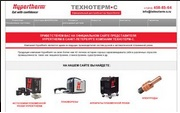
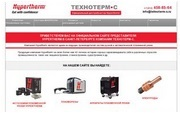
new

Changed region(s): [[0.0, 0.0, 1.0, 0.9823]]

diff --git a/build/css/style.min.css b/build/css/style.min.css
@@ -1,2 +1,2 @@
 /*! normalize.css v4.1.1 | MIT License | github.com/necolas/normalize.css */
-html{font-family:sans-serif;-ms-text-size-adjust:100%;-webkit-text-size-adjust:100%}body{margin:0}article,aside,details,figcaption,figure,footer,header,main,menu,nav,section,summary{display:block}audio,canvas,progress,video{display:inline-block}audio:not([controls]){display:none;height:0}progress,sub,sup{vertical-align:baseline}[hidden],template{display:none}a{background-color:transparent;-webkit-text-decoration-skip:objects}a:active,a:hover{outline-width:0}abbr[title]{border-bottom:none;text-decoration:underline dotted}b,strong{font-weight:bolder}dfn{font-style:italic}h1{font-size:2em;margin:.67em 0}mark{background-color:#ff0;color:#000}small{font-size:80%}sub,sup{font-size:75%;line-height:0;position:relative}sub{bottom:-.25em}sup{top:-.5em}img{border-style:none}svg:not(:root){overflow:hidden}code,kbd,pre,samp{font-family:monospace,monospace;font-size:1em}figure{margin:1em 40px}hr{box-sizing:content-box;height:0}button,input,select,textarea{font:inherit;margin:0}optgroup{font-weight:700}button,hr,input{overflow:visible}button,select{text-transform:none}[type=reset],[type=submit],button,html [type=button]{-webkit-appearance:button}[type=button]::-moz-focus-inner,[type=reset]::-moz-focus-inner,[type=submit]::-moz-focus-inner,button::-moz-focus-inner{border-style:none;padding:0}[type=button]:-moz-focusring,[type=reset]:-moz-focusring,[type=submit]:-moz-focusring,button:-moz-focusring{outline:1px dotted ButtonText}fieldset{border:1px solid silver;margin:0 2px;padding:.35em .625em .75em}legend{color:inherit;display:table;max-width:100%;white-space:normal}textarea{overflow:auto}[type=checkbox],[type=radio],legend{box-sizing:border-box;padding:0}[type=number]::-webkit-inner-spin-button,[type=number]::-webkit-outer-spin-button{height:auto}[type=search]{-webkit-appearance:textfield;outline-offset:-2px}[type=search]::-webkit-search-cancel-button,[type=search]::-webkit-search-decoration{-webkit-appearance:none}::-webkit-input-placeholder{color:inherit;opacity:.54}::-webkit-file-upload-button{-webkit-appearance:button;font:inherit}.container{background:linear-gradient(180deg,#f1f5f7 0%,#a9a9a9 80%) no-repeat}.header{display:flex;flex-direction:column;padding-bottom:113px}.ad-list-items{display:flex;justify-content:center;padding:20px;list-style:none;margin:100px auto 40px;background:#fff;width:700px;border:2px solid rgba(0,0,0,.2)}.ad-list-items__item{display:flex;margin-right:20px}.ad-list-items__link{display:flex;flex-direction:column;text-align:center;border:3px solid #000;transition:.2s ease-out;text-decoration:none}.ad-list-items__link:hover{box-shadow:0 0 9px 6px rgba(0,0,0,.4)}.ad-list-items__text{background:#000;padding:2px;color:#fff}.list-items{display:flex;flex-wrap:wrap;justify-content:center;width:700px;margin:auto;list-style:none;background:#fff;border:2px solid rgba(0,0,0,.2);padding:20px}.list-items__item{margin-bottom:20px;margin-right:20px}.list-items__link{display:flex;border:2px solid #000;flex-direction:column;text-align:center;width:100%;text-decoration:none;color:#f0f8ff;z-index:10;transition:.2s ease-out}.list-items__link:hover{box-shadow:0 0 7px 5px rgba(0,0,0,.4)}.list-items__text{background:rgba(0,0,0,.7);padding:2px}
+html{font-family:sans-serif;-ms-text-size-adjust:100%;-webkit-text-size-adjust:100%}body{margin:0}article,aside,details,figcaption,figure,footer,header,main,menu,nav,section,summary{display:block}audio,canvas,progress,video{display:inline-block}audio:not([controls]){display:none;height:0}progress,sub,sup{vertical-align:baseline}[hidden],template{display:none}a{background-color:transparent;-webkit-text-decoration-skip:objects}a:active,a:hover{outline-width:0}abbr[title]{border-bottom:none;text-decoration:underline dotted}b,strong{font-weight:bolder}dfn{font-style:italic}h1{font-size:2em;margin:.67em 0}mark{background-color:#ff0;color:#000}small{font-size:80%}sub,sup{font-size:75%;line-height:0;position:relative}sub{bottom:-.25em}sup{top:-.5em}img{border-style:none}svg:not(:root){overflow:hidden}code,kbd,pre,samp{font-family:monospace,monospace;font-size:1em}figure{margin:1em 40px}hr{box-sizing:content-box;height:0}button,input,select,textarea{font:inherit;margin:0}optgroup{font-weight:700}button,hr,input{overflow:visible}button,select{text-transform:none}[type=reset],[type=submit],button,html [type=button]{-webkit-appearance:button}[type=button]::-moz-focus-inner,[type=reset]::-moz-focus-inner,[type=submit]::-moz-focus-inner,button::-moz-focus-inner{border-style:none;padding:0}[type=button]:-moz-focusring,[type=reset]:-moz-focusring,[type=submit]:-moz-focusring,button:-moz-focusring{outline:1px dotted ButtonText}fieldset{border:1px solid silver;margin:0 2px;padding:.35em .625em .75em}legend{color:inherit;display:table;max-width:100%;white-space:normal}textarea{overflow:auto}[type=checkbox],[type=radio],legend{box-sizing:border-box;padding:0}[type=number]::-webkit-inner-spin-button,[type=number]::-webkit-outer-spin-button{height:auto}[type=search]{-webkit-appearance:textfield;outline-offset:-2px}[type=search]::-webkit-search-cancel-button,[type=search]::-webkit-search-decoration{-webkit-appearance:none}::-webkit-input-placeholder{color:inherit;opacity:.54}::-webkit-file-upload-button{-webkit-appearance:button;font:inherit}.container{background:linear-gradient(180deg,#f1f5f7 0%,#a9a9a9 80%) no-repeat}.header{display:flex;flex-direction:column;padding-bottom:150px}.ad-list-items{display:flex;justify-content:center;padding:20px;list-style:none;margin:100px auto 40px;width:700px}.ad-list-items__item{display:flex;margin-right:20px}.ad-list-items__link{display:flex;flex-direction:column;text-align:center;transition:.2s ease-out;text-decoration:none}.ad-list-items__link:hover{box-shadow:0 0 9px 6px rgba(0,0,0,.4)}.ad-list-items__text{padding:2px;color:#000;border-bottom:2px solid #000;background:#fff;font-family:monospace;font-size:16px}.list-items{display:flex;flex-wrap:wrap;justify-content:center;width:700px;margin:auto;list-style:none;padding:20px}.list-items__item{margin-bottom:20px;margin-right:20px;border-bottom:2px solid #000}.list-items__link{display:flex;flex-direction:column;text-align:center;width:100%;text-decoration:none;color:#fff;transition:.2s ease-out}.list-items__link:hover{box-shadow:0 0 7px 5px rgba(0,0,0,.4)}.list-items__text{color:#000;padding:2px;transition:.3s ease-out;background:#fff;font-family:monospace;font-size:16px}.list-items__link:hover .list-items__text{opacity:1}

diff --git a/css/style.min.css b/css/style.min.css
@@ -1,2 +1,2 @@
 /*! normalize.css v4.1.1 | MIT License | github.com/necolas/normalize.css */
-html{font-family:sans-serif;-ms-text-size-adjust:100%;-webkit-text-size-adjust:100%}body{margin:0}article,aside,details,figcaption,figure,footer,header,main,menu,nav,section,summary{display:block}audio,canvas,progress,video{display:inline-block}audio:not([controls]){display:none;height:0}progress,sub,sup{vertical-align:baseline}[hidden],template{display:none}a{background-color:transparent;-webkit-text-decoration-skip:objects}a:active,a:hover{outline-width:0}abbr[title]{border-bottom:none;text-decoration:underline dotted}b,strong{font-weight:bolder}dfn{font-style:italic}h1{font-size:2em;margin:.67em 0}mark{background-color:#ff0;color:#000}small{font-size:80%}sub,sup{font-size:75%;line-height:0;position:relative}sub{bottom:-.25em}sup{top:-.5em}img{border-style:none}svg:not(:root){overflow:hidden}code,kbd,pre,samp{font-family:monospace,monospace;font-size:1em}figure{margin:1em 40px}hr{box-sizing:content-box;height:0}button,input,select,textarea{font:inherit;margin:0}optgroup{font-weight:700}button,hr,input{overflow:visible}button,select{text-transform:none}[type=reset],[type=submit],button,html [type=button]{-webkit-appearance:button}[type=button]::-moz-focus-inner,[type=reset]::-moz-focus-inner,[type=submit]::-moz-focus-inner,button::-moz-focus-inner{border-style:none;padding:0}[type=button]:-moz-focusring,[type=reset]:-moz-focusring,[type=submit]:-moz-focusring,button:-moz-focusring{outline:1px dotted ButtonText}fieldset{border:1px solid silver;margin:0 2px;padding:.35em .625em .75em}legend{color:inherit;display:table;max-width:100%;white-space:normal}textarea{overflow:auto}[type=checkbox],[type=radio],legend{box-sizing:border-box;padding:0}[type=number]::-webkit-inner-spin-button,[type=number]::-webkit-outer-spin-button{height:auto}[type=search]{-webkit-appearance:textfield;outline-offset:-2px}[type=search]::-webkit-search-cancel-button,[type=search]::-webkit-search-decoration{-webkit-appearance:none}::-webkit-input-placeholder{color:inherit;opacity:.54}::-webkit-file-upload-button{-webkit-appearance:button;font:inherit}.container{background:linear-gradient(180deg,#f1f5f7 0%,#a9a9a9 80%) no-repeat}.header{display:flex;flex-direction:column;padding-bottom:113px}.ad-list-items{display:flex;justify-content:center;padding:20px;list-style:none;margin:100px auto 40px;background:#fff;width:700px;border:2px solid rgba(0,0,0,.2)}.ad-list-items__item{display:flex;margin-right:20px}.ad-list-items__link{display:flex;flex-direction:column;text-align:center;border:3px solid #000;transition:.2s ease-out;text-decoration:none}.ad-list-items__link:hover{box-shadow:0 0 9px 6px rgba(0,0,0,.4)}.ad-list-items__text{background:#000;padding:2px;color:#fff}.list-items{display:flex;flex-wrap:wrap;justify-content:center;width:700px;margin:auto;list-style:none;background:#fff;border:2px solid rgba(0,0,0,.2);padding:20px}.list-items__item{margin-bottom:20px;margin-right:20px}.list-items__link{display:flex;border:2px solid #000;flex-direction:column;text-align:center;width:100%;text-decoration:none;color:#f0f8ff;z-index:10;transition:.2s ease-out}.list-items__link:hover{box-shadow:0 0 7px 5px rgba(0,0,0,.4)}.list-items__text{background:rgba(0,0,0,.7);padding:2px}
+html{font-family:sans-serif;-ms-text-size-adjust:100%;-webkit-text-size-adjust:100%}body{margin:0}article,aside,details,figcaption,figure,footer,header,main,menu,nav,section,summary{display:block}audio,canvas,progress,video{display:inline-block}audio:not([controls]){display:none;height:0}progress,sub,sup{vertical-align:baseline}[hidden],template{display:none}a{background-color:transparent;-webkit-text-decoration-skip:objects}a:active,a:hover{outline-width:0}abbr[title]{border-bottom:none;text-decoration:underline dotted}b,strong{font-weight:bolder}dfn{font-style:italic}h1{font-size:2em;margin:.67em 0}mark{background-color:#ff0;color:#000}small{font-size:80%}sub,sup{font-size:75%;line-height:0;position:relative}sub{bottom:-.25em}sup{top:-.5em}img{border-style:none}svg:not(:root){overflow:hidden}code,kbd,pre,samp{font-family:monospace,monospace;font-size:1em}figure{margin:1em 40px}hr{box-sizing:content-box;height:0}button,input,select,textarea{font:inherit;margin:0}optgroup{font-weight:700}button,hr,input{overflow:visible}button,select{text-transform:none}[type=reset],[type=submit],button,html [type=button]{-webkit-appearance:button}[type=button]::-moz-focus-inner,[type=reset]::-moz-focus-inner,[type=submit]::-moz-focus-inner,button::-moz-focus-inner{border-style:none;padding:0}[type=button]:-moz-focusring,[type=reset]:-moz-focusring,[type=submit]:-moz-focusring,button:-moz-focusring{outline:1px dotted ButtonText}fieldset{border:1px solid silver;margin:0 2px;padding:.35em .625em .75em}legend{color:inherit;display:table;max-width:100%;white-space:normal}textarea{overflow:auto}[type=checkbox],[type=radio],legend{box-sizing:border-box;padding:0}[type=number]::-webkit-inner-spin-button,[type=number]::-webkit-outer-spin-button{height:auto}[type=search]{-webkit-appearance:textfield;outline-offset:-2px}[type=search]::-webkit-search-cancel-button,[type=search]::-webkit-search-decoration{-webkit-appearance:none}::-webkit-input-placeholder{color:inherit;opacity:.54}::-webkit-file-upload-button{-webkit-appearance:button;font:inherit}.container{background:linear-gradient(180deg,#f1f5f7 0%,#a9a9a9 80%) no-repeat}.header{display:flex;flex-direction:column;padding-bottom:150px}.ad-list-items{display:flex;justify-content:center;padding:20px;list-style:none;margin:100px auto 40px;width:700px}.ad-list-items__item{display:flex;margin-right:20px}.ad-list-items__link{display:flex;flex-direction:column;text-align:center;transition:.2s ease-out;text-decoration:none}.ad-list-items__link:hover{box-shadow:0 0 9px 6px rgba(0,0,0,.4)}.ad-list-items__text{padding:2px;color:#000;border-bottom:2px solid #000;background:#fff;font-family:monospace;font-size:16px}.list-items{display:flex;flex-wrap:wrap;justify-content:center;width:700px;margin:auto;list-style:none;padding:20px}.list-items__item{margin-bottom:20px;margin-right:20px;border-bottom:2px solid #000}.list-items__link{display:flex;flex-direction:column;text-align:center;width:100%;text-decoration:none;color:#fff;transition:.2s ease-out}.list-items__link:hover{box-shadow:0 0 7px 5px rgba(0,0,0,.4)}.list-items__text{color:#000;padding:2px;transition:.3s ease-out;background:#fff;font-family:monospace;font-size:16px}.list-items__link:hover .list-items__text{opacity:1}

diff --git a/less/blocks/index.less b/less/blocks/index.less
@@ -5,7 +5,7 @@
 .header {
   display: flex;
   flex-direction: column;
-  padding-bottom: 113px;
+  padding-bottom: 150px;
 }
 
 .ad-list-items {
@@ -15,10 +15,8 @@
   margin: auto;
   list-style: none;
   margin-top: 100px;
-  margin-bottom: 40px;
-  background: #fff;
+  margin-bottom: 40px;  
   width: 700px;
-  border: 2px solid rgba(0,0,0, 0.2);
 }
 
 .ad-list-items__item {
@@ -29,8 +27,7 @@
 .ad-list-items__link {
   display: flex;
   flex-direction: column;
-  text-align: center;
-  border: 3px solid #000;
+  text-align: center;  
   transition: 0.2s ease-out;
   text-decoration: none;
 }
@@ -39,10 +36,13 @@
   box-shadow: 0px 0px 9px 6px rgba(0,0,0, 0.4);
 }
 
-.ad-list-items__text {
-  background: #000;
+.ad-list-items__text {  
   padding: 2px;
-  color: #fff;
+  color: #000;
+  border-bottom: 2px solid #000;
+  background: #fff;
+  font-family: monospace;
+  font-size: 16px;
 }
 
 .list-items {   
@@ -51,26 +51,23 @@
   justify-content: center;
   width: 700px;
   margin: auto;    
-  list-style: none;
-  background: #fff;
-  border: 2px solid rgba(0,0,0, 0.2);
-  padding: 20px;
+  list-style: none;  
+  padding: 20px;  
 }
 
 .list-items__item {      
   margin-bottom: 20px;
   margin-right: 20px;
+  border-bottom: 2px solid #000;
 }
 
 .list-items__link {  
-  display: flex;  
-  border: 2px solid #000;  
+  display: flex;    
   flex-direction: column;  
   text-align: center;
   width: 100%;  
   text-decoration: none;
-  color: aliceblue;    
-  z-index: 10;
+  color: #fff;
   transition: 0.2s ease-out;
 }
 
@@ -78,8 +75,15 @@
   box-shadow: 0px 0px 7px 5px rgba(0,0,0, 0.4);
 }
 
-.list-items__text {
-  background: rgba(0,0,0, 0.7);
+.list-items__text {  
+  color: #000;
   padding: 2px;
+  transition: 0.3s ease-out;
+  background: #fff;
+  font-family: monospace;
+  font-size: 16px;
+}
+.list-items__link:hover .list-items__text {
+  opacity: 1;
 }
 

diff --git a/build/css/style.css b/build/css/style.css
@@ -370,7 +370,7 @@ textarea {
 .header {
   display: flex;
   flex-direction: column;
-  padding-bottom: 113px;
+  padding-bottom: 150px;
 }
 .ad-list-items {
   display: flex;
@@ -380,9 +380,7 @@ textarea {
   list-style: none;
   margin-top: 100px;
   margin-bottom: 40px;
-  background: #fff;
   width: 700px;
-  border: 2px solid rgba(0, 0, 0, 0.2);
 }
 .ad-list-items__item {
   display: flex;
@@ -392,7 +390,6 @@ textarea {
   display: flex;
   flex-direction: column;
   text-align: center;
-  border: 3px solid #000;
   transition: 0.2s ease-out;
   text-decoration: none;
 }
@@ -400,9 +397,12 @@ textarea {
   box-shadow: 0px 0px 9px 6px rgba(0, 0, 0, 0.4);
 }
 .ad-list-items__text {
-  background: #000;
   padding: 2px;
-  color: #fff;
+  color: #000;
+  border-bottom: 2px solid #000;
+  background: #fff;
+  font-family: monospace;
+  font-size: 16px;
 }
 .list-items {
   display: flex;
@@ -411,29 +411,33 @@ textarea {
   width: 700px;
   margin: auto;
   list-style: none;
-  background: #fff;
-  border: 2px solid rgba(0, 0, 0, 0.2);
   padding: 20px;
 }
 .list-items__item {
   margin-bottom: 20px;
   margin-right: 20px;
+  border-bottom: 2px solid #000;
 }
 .list-items__link {
   display: flex;
-  border: 2px solid #000;
   flex-direction: column;
   text-align: center;
   width: 100%;
   text-decoration: none;
-  color: aliceblue;
-  z-index: 10;
+  color: #fff;
   transition: 0.2s ease-out;
 }
 .list-items__link:hover {
   box-shadow: 0px 0px 7px 5px rgba(0, 0, 0, 0.4);
 }
 .list-items__text {
-  background: rgba(0, 0, 0, 0.7);
+  color: #000;
   padding: 2px;
+  transition: 0.3s ease-out;
+  background: #fff;
+  font-family: monospace;
+  font-size: 16px;
+}
+.list-items__link:hover .list-items__text {
+  opacity: 1;
 }

diff --git a/css/style.css b/css/style.css
@@ -370,7 +370,7 @@ textarea {
 .header {
   display: flex;
   flex-direction: column;
-  padding-bottom: 113px;
+  padding-bottom: 150px;
 }
 .ad-list-items {
   display: flex;
@@ -380,9 +380,7 @@ textarea {
   list-style: none;
   margin-top: 100px;
   margin-bottom: 40px;
-  background: #fff;
   width: 700px;
-  border: 2px solid rgba(0, 0, 0, 0.2);
 }
 .ad-list-items__item {
   display: flex;
@@ -392,7 +390,6 @@ textarea {
   display: flex;
   flex-direction: column;
   text-align: center;
-  border: 3px solid #000;
   transition: 0.2s ease-out;
   text-decoration: none;
 }
@@ -400,9 +397,12 @@ textarea {
   box-shadow: 0px 0px 9px 6px rgba(0, 0, 0, 0.4);
 }
 .ad-list-items__text {
-  background: #000;
   padding: 2px;
-  color: #fff;
+  color: #000;
+  border-bottom: 2px solid #000;
+  background: #fff;
+  font-family: monospace;
+  font-size: 16px;
 }
 .list-items {
   display: flex;
@@ -411,29 +411,33 @@ textarea {
   width: 700px;
   margin: auto;
   list-style: none;
-  background: #fff;
-  border: 2px solid rgba(0, 0, 0, 0.2);
   padding: 20px;
 }
 .list-items__item {
   margin-bottom: 20px;
   margin-right: 20px;
+  border-bottom: 2px solid #000;
 }
 .list-items__link {
   display: flex;
-  border: 2px solid #000;
   flex-direction: column;
   text-align: center;
   width: 100%;
   text-decoration: none;
-  color: aliceblue;
-  z-index: 10;
+  color: #fff;
   transition: 0.2s ease-out;
 }
 .list-items__link:hover {
   box-shadow: 0px 0px 7px 5px rgba(0, 0, 0, 0.4);
 }
 .list-items__text {
-  background: rgba(0, 0, 0, 0.7);
+  color: #000;
   padding: 2px;
+  transition: 0.3s ease-out;
+  background: #fff;
+  font-family: monospace;
+  font-size: 16px;
+}
+.list-items__link:hover .list-items__text {
+  opacity: 1;
 }
